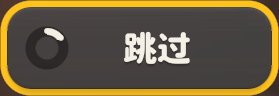
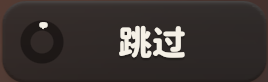
新增uno自动跳过功能

diff --git a/AutoFishDiscard.py b/AutoFishDiscard.py
@@ -37,11 +37,6 @@ def auto_fish_discard_sync(event):
 
     discard_count = [0, 0, 0, 0]
 
-    # 确保 mouse 对象已初始化
-    if _default_mouse is not None:
-        with global_config._mouse_lock:
-            _default_mouse.set_speed(global_config.get_param('auto_discard_speed'))
-
     # 使用独立的 mss 实例
     local_scr = None
 
@@ -142,11 +137,6 @@ def auto_fish_discard():
                 if local_scr is None:
                     local_scr = mss.mss()
                 global_config.set_scr(local_scr)
-
-                # 确保 mouse 对象已初始化
-                if _default_mouse is not None:
-                    with global_config._mouse_lock:
-                        _default_mouse.set_speed(global_config.get_param('auto_discard_speed'))
 
                 with global_config._params_lock:
                     is_auto_fish_discard = global_config.params['is_auto_fish_discard']

diff --git a/AutoUNO.py b/AutoUNO.py
@@ -2,6 +2,8 @@
 import threading
 import time
 
+import mss
+
 from Action import uno_skip_matched, uno_click_skip_button
 from GlobalConfig import global_config
 from MouseOrKeyBoardUtil import ensure_mouse_left_up
@@ -17,12 +19,20 @@ def auto_uno_skip():
     uno_skip_times = global_config.get_param('uno_skip_times')
     is_keep_skipping = global_config.get_param('is_keep_skipping')
 
+    local_scr = None
+
+
     while True:
         if not run_event.is_set():
             run_event.wait(timeout=1.0)  # 等待 1 秒，避免死锁
             continue
 
         try:
+            # 创建独立的 mss 实例
+            if local_scr is None:
+                local_scr = mss.mss()
+            global_config.set_scr(local_scr)
+
             if run_event.is_set():
                 if uno_skip_times <= 0:
                     stop_auto_skip()

diff --git a/AutoWait.py b/AutoWait.py
@@ -37,7 +37,7 @@ def auto_await():
 
             elif 'key' in action_choice:
                 key_split = action_choice.split('.')
-                key = key_split[1]
+                key = int(key_split[1], 16)
                 key_press(key, 0.1)
                 print("🎮 [挂机] 操作{}".format(key_split[0].split('_')[1]))
         except Exception as e:
@@ -47,7 +47,7 @@ def auto_await():
         # 使用分段休眠，以便快速响应停止信号
         for _ in range(180):  # 180 次 * 1 秒 = 180 秒
             if not run_event.is_set():
-                break
+                continue
             time.sleep(1.0)
 
 

diff --git a/Location.py b/Location.py
@@ -30,7 +30,7 @@ FISH_DISCARD_LOCATION = (1964, 800, 'tr')  # 丢弃鱼坐标 屏幕位置与FIRS
 FISH_LOCKED_LOCATION = (1964, 860, 'tr')  # 锁定鱼坐标 屏幕位置与FIRST_FISH_LOCATION保持一致
 
 FISH_INFO_REGION_BASE = (915, 75, 725, 150, 'tc')  # 鱼信息识别区域
-UNO_SKIP_INFO_REGION_BASE = (2242, 1314, 284, 100, 'br')  # uno跳过按钮 #todo
+UNO_SKIP_INFO_REGION_BASE = (2249, 1319, 268, 82, 'br')  # uno跳过按钮
 UNO_CLICK_LOCATION = (2318, 1353, 'br')  # uno 点击位置
 
 

diff --git a/GlobalConfig.py b/GlobalConfig.py
@@ -83,7 +83,6 @@ class GlobalConfig:
         self._scr_lock = threading.Lock()  # 专门保护 scr 资源
         self._bait_count_lock = threading.Lock()  # 专门保护 bait_count_val
         self._params_lock = threading.RLock()  # 保护 params 字典
-        self._mouse_lock = threading.Lock()  # 保护鼠标操作
 
         # 线程协调事件
         self._fishing_pause_event = threading.Event()  # 钓鱼暂停事件（丢鱼时）

diff --git a/Start.py b/Start.py
@@ -75,7 +75,7 @@ def on_press_f4(key):
 
 def on_press_f5(key):
     time.sleep(0.02)
-    if key == pynput_keyboard.Key.f4:
+    if key == pynput_keyboard.Key.f5:
         if global_config.auto_fish_discard_thread_event is not None:
             if global_config.auto_fish_discard_thread_event.is_set():
                 toggle_run_auto_fish_discard()  # 暂停自动丢鱼

diff --git a/Action.py b/Action.py
@@ -402,5 +402,5 @@ def mouse_move_safe():
 
 # uno点击跳过按钮
 def uno_click_skip_button():
-    mouse.move(location.mouse_uno_location[0], location.mouse_uno_location[1])
+    mouse.move(location.uno_skip_info_region_base[0], location.uno_skip_info_region_base[1])
     hold_mouse_left_button(0.1)

diff --git a/MouseOrKeyBoardUtil.py b/MouseOrKeyBoardUtil.py
@@ -181,4 +181,5 @@ def get_mouse():
     global _default_mouse
     if _default_mouse is None:
         _default_mouse = HumanLikeMouse()
+        _default_mouse.set_speed(global_config.get_param('auto_discard_speed'))
     return _default_mouse
